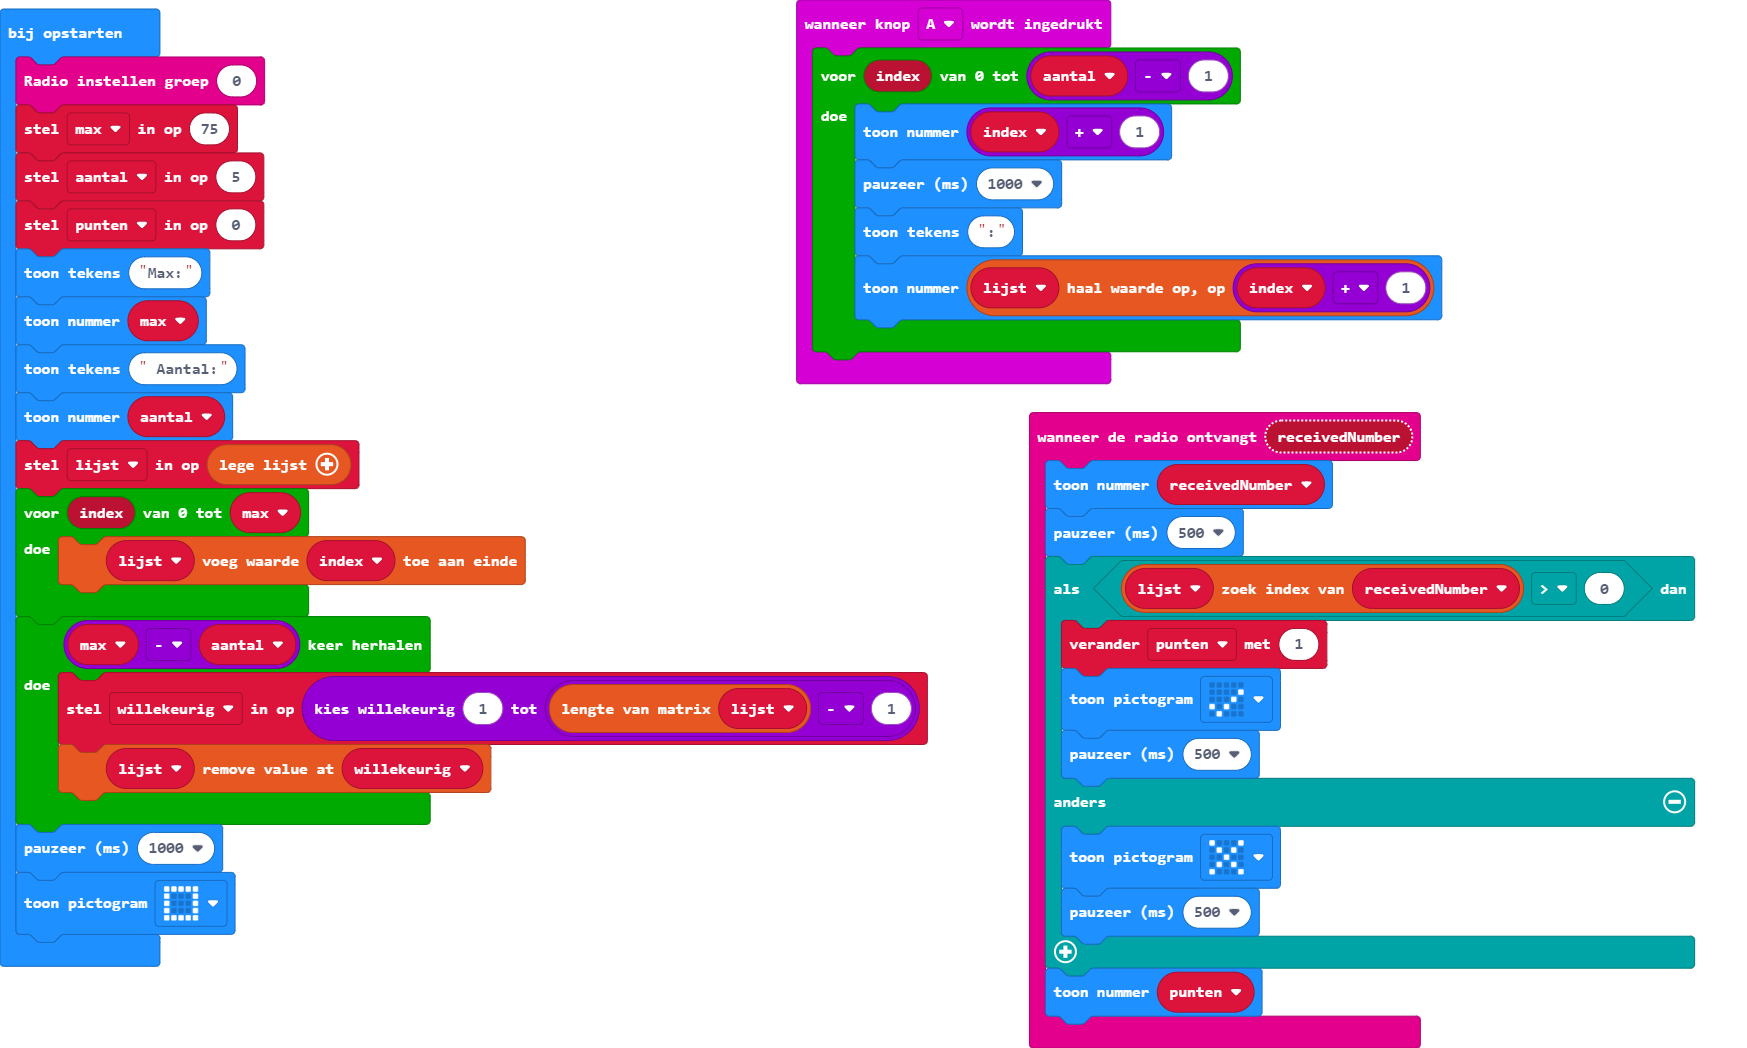
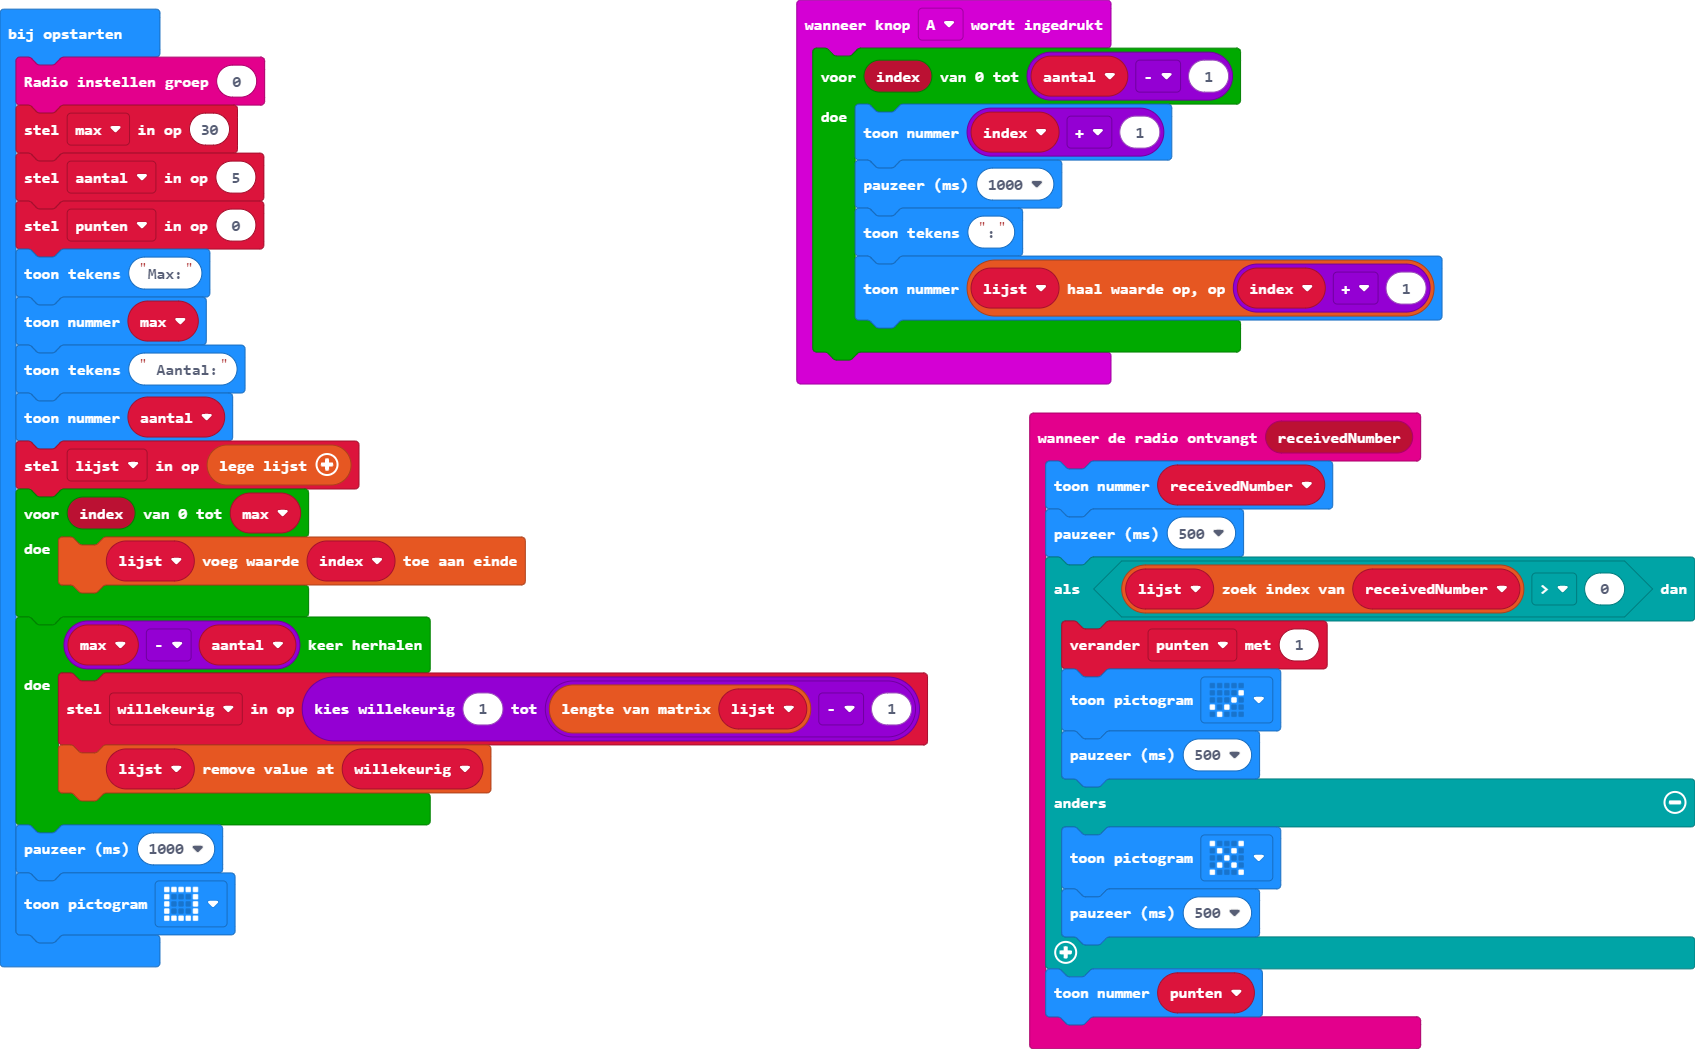
max 30 ipv 75

diff --git a/main.ts b/main.ts
@@ -24,7 +24,7 @@ let lijst: number[] = []
 let punten = 0
 let aantal = 0
 radio.setGroup(0)
-let max = 75
+let max = 30
 aantal = 5
 punten = 0
 basic.showString("Max:")
